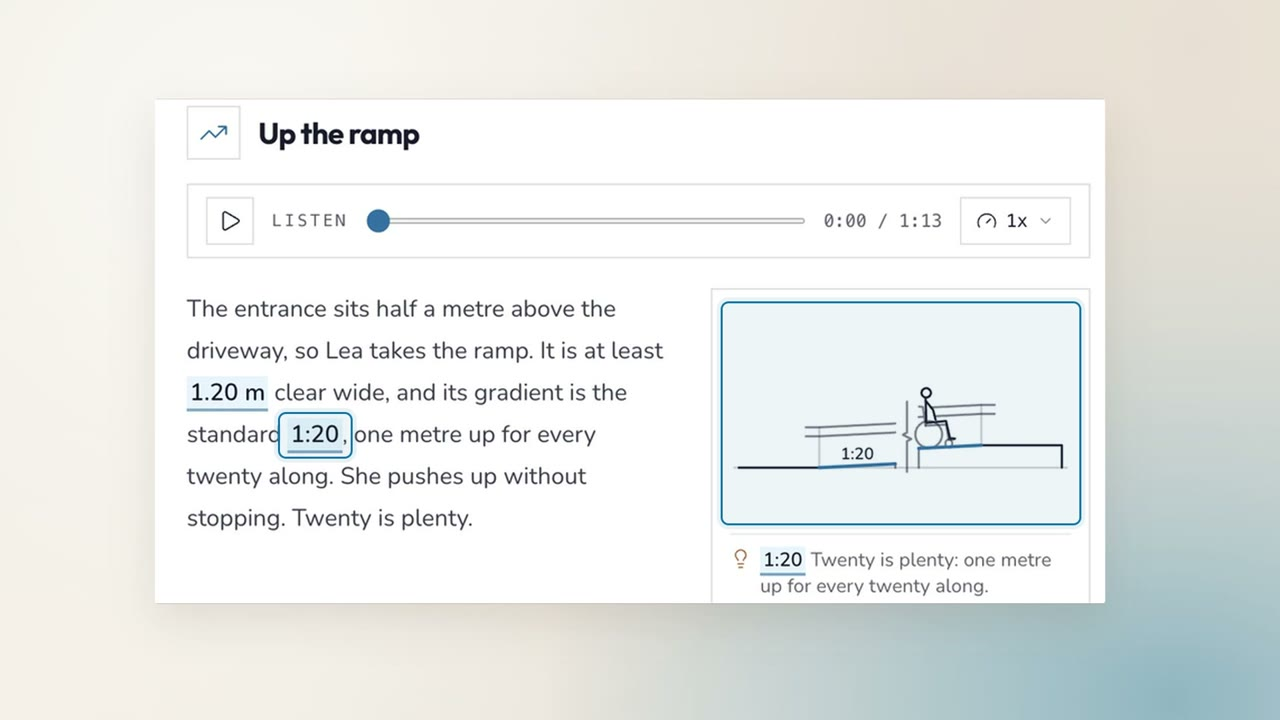
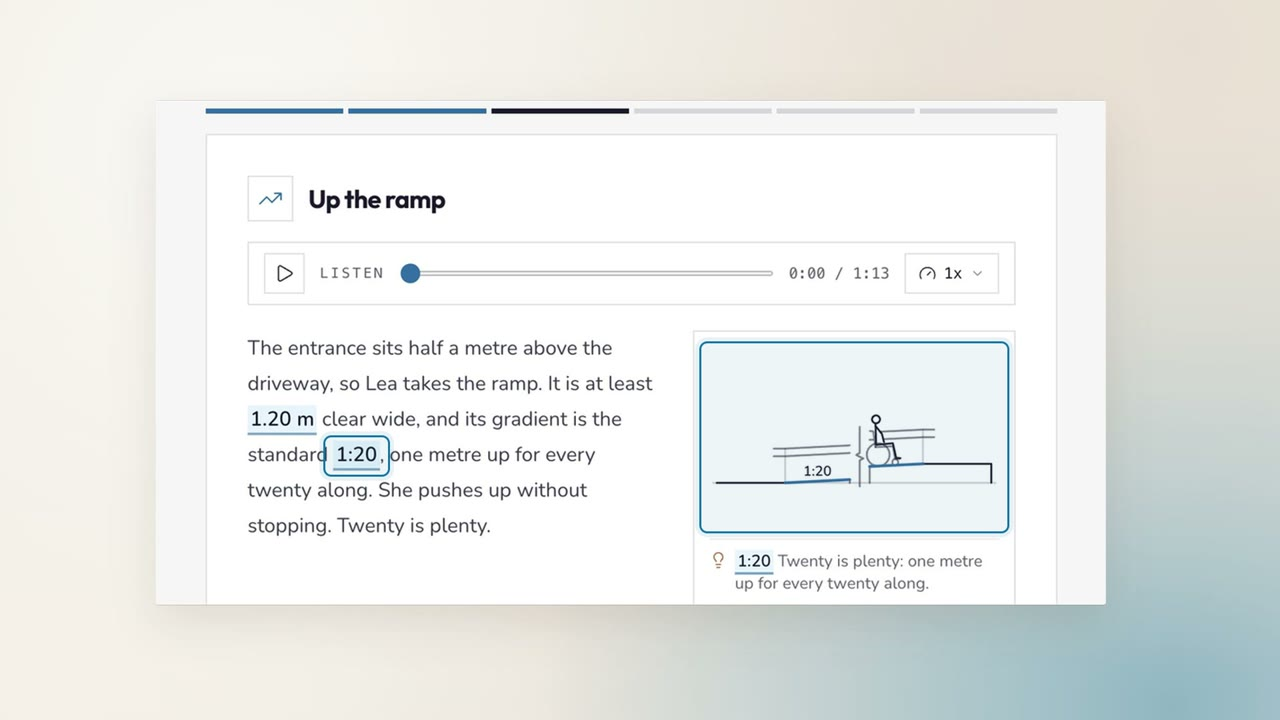
docs: Arkitekto showcase re-cut wide first in its own font (1:27)

diff --git a/site/index.html b/site/index.html
@@ -297,11 +297,11 @@ footer { position: relative; overflow: hidden; container-type: inline-size; marg
         <p>Tell Claude Code, Codex, Cursor, Gemini CLI or Copilot what the demo should show. It writes the plan and, if you like, a storyboard of every scene in your product's font and colours. Then it clicks through your product in Chrome, records each scene with secrets blurred, and cuts the video.</p>
       </header>
       <figure class="frame">
-        <video controls preload="none" playsinline poster="img/sample-showcase-poster.jpg" data-length="1:18" aria-label="Study app showcase, made by demo-studio">
+        <video controls preload="none" playsinline poster="img/sample-showcase-poster.jpg" data-length="1:27" aria-label="Study app showcase, made by demo-studio">
           <source src="media/sample-showcase.mp4" type="video/mp4">
         </video>
       </figure>
-      <p class="note"><span>Study app showcase, 1:18, with sound</span><span>Recorded and finished by the plugin. No AI footage.</span></p>
+      <p class="note"><span>Study app showcase, 1:27, with sound</span><span>Recorded and finished by the plugin. No AI footage.</span></p>
     </section>
 
     <section class="scene" id="editor" data-scene="2" aria-labelledby="editor-h">

diff --git a/README.md b/README.md
@@ -49,7 +49,7 @@ money or create something it can't delete.
 
 Real apps, finished by the plugin. Click a preview to watch it in 1080p with sound.
 
-| Study app showcase (1:18) | Todo app sample (0:37) |
+| Study app showcase (1:27) | Todo app sample (0:37) |
 | --- | --- |
 | [![Study app showcase](docs/img/sample-showcase.gif)](https://github.com/cyruspastelero/demo-studio/releases/download/samples/sample-showcase.mp4) | [![Todo app sample](docs/img/sample-todo.gif)](https://github.com/cyruspastelero/demo-studio/releases/download/samples/sample-todo.mp4) |
 | A live study app with a seeded demo learner. | [TodoMVC](https://todomvc.com), three scenes, no login. [Rebuild it yourself](examples/todo-sample). |
